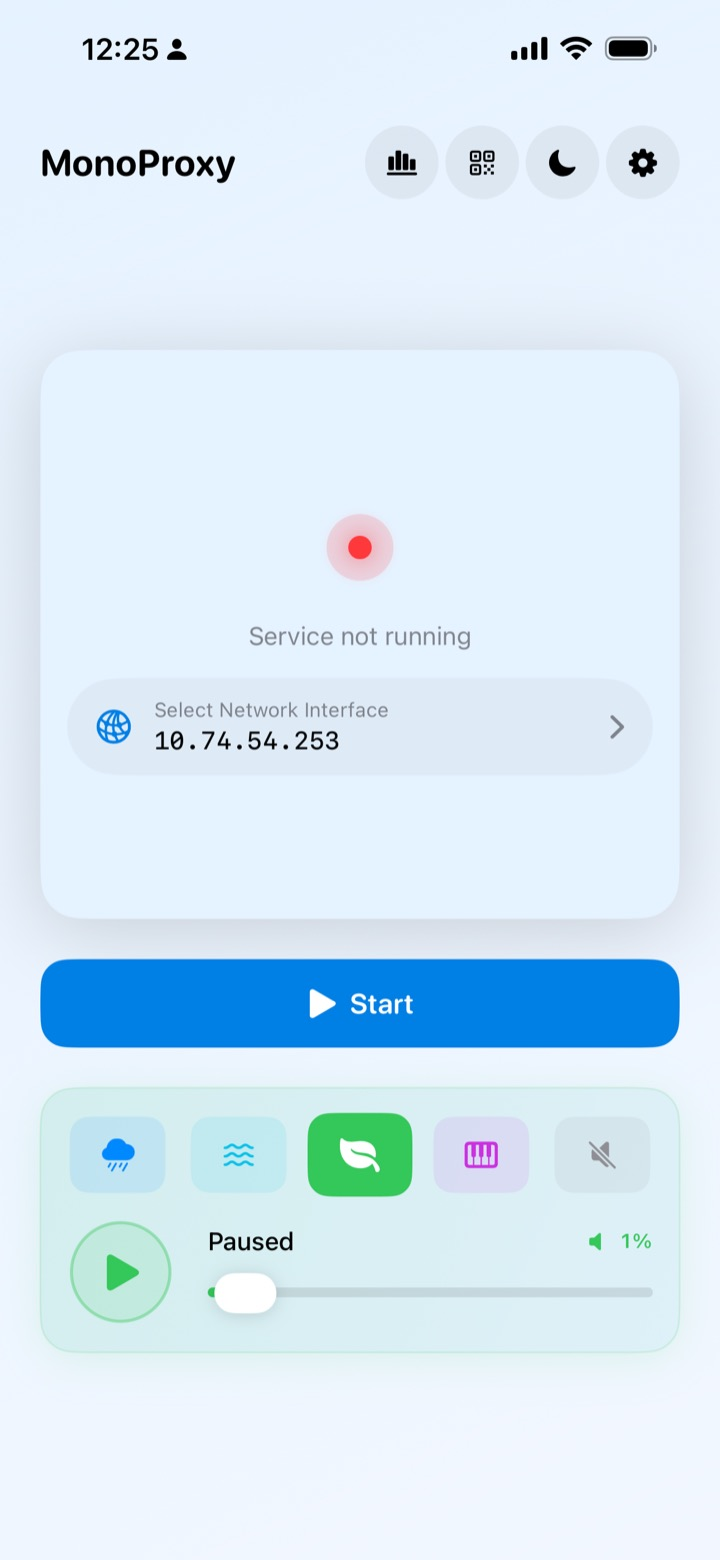
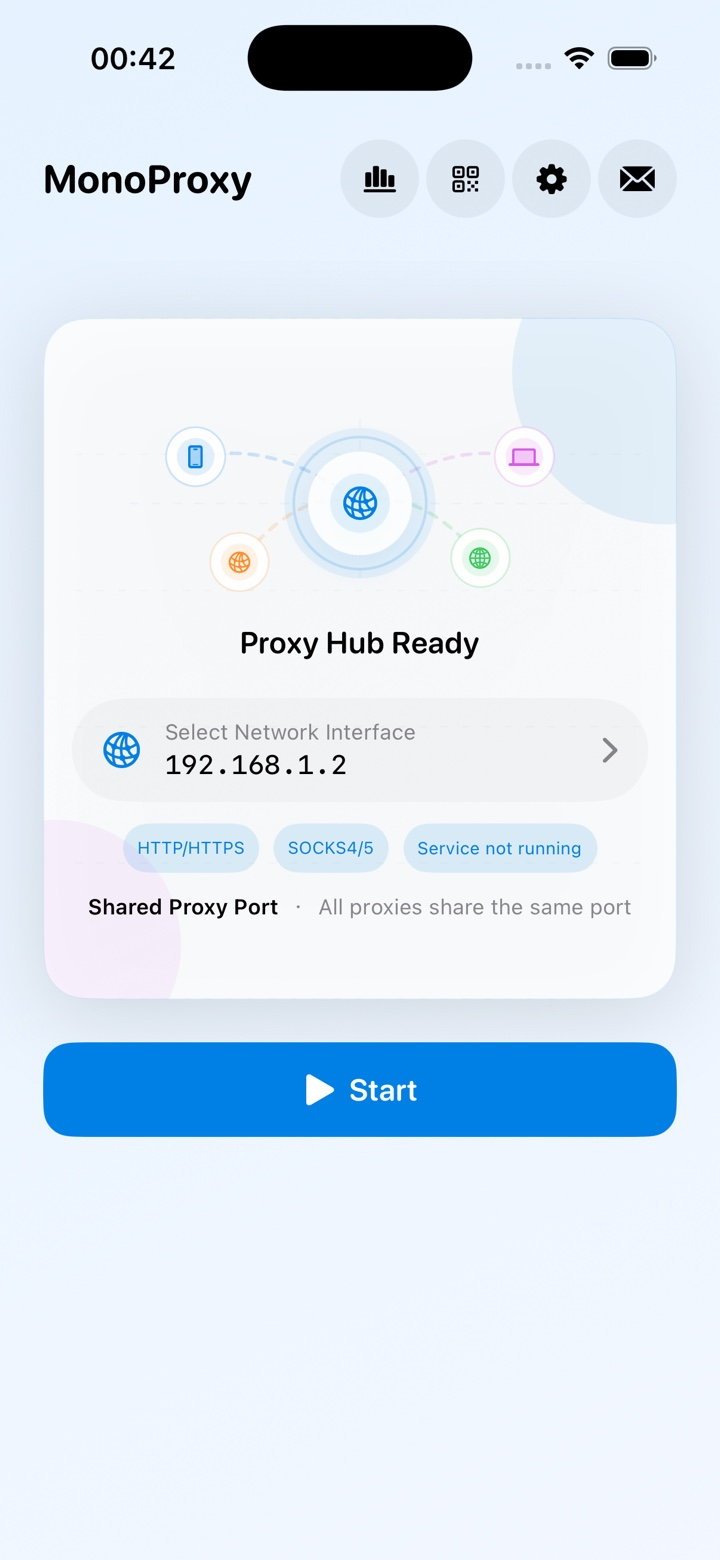
Update MonoProxy iOS launch site

diff --git a/index.html b/index.html
@@ -3,10 +3,10 @@
 <head>
 <meta charset="UTF-8">
 <meta name="viewport" content="width=device-width, initial-scale=1.0">
-<title>MonoProxy - Turn Your iPhone Into a Local Proxy Hub</title>
-<meta name="description" content="Run HTTP, HTTPS and SOCKS proxy services on your iPhone, connect devices on the same network, and verify real traffic locally.">
-<meta property="og:title" content="MonoProxy - Your iPhone, One Local Proxy Hub">
-<meta property="og:description" content="Connect Macs, PCs, tablets and test devices through one private local proxy endpoint.">
+<title>MonoProxy - iPhone Local Proxy Hub for HTTP, HTTPS and SOCKS</title>
+<meta name="description" content="MonoProxy turns your iPhone into a private local proxy hub with a redesigned status UI, shared HTTP/HTTPS/SOCKS endpoint, QR setup, diagnostics and on-device traffic insight.">
+<meta property="og:title" content="MonoProxy - Your iPhone, One Private Proxy Hub">
+<meta property="og:description" content="Share one local endpoint with Macs, PCs, tablets and test devices, then verify real HTTP, HTTPS and SOCKS traffic on device.">
 <meta property="og:type" content="website">
 <meta property="og:image" content="https://proxy.monoware.app/images/proxy-topology.jpg">
 <meta name="theme-color" content="#07111f">
@@ -137,6 +137,41 @@
   .protocol-list{display:grid;grid-template-columns:repeat(5,1fr)}
   .protocol-list span{padding:20px;text-align:center;border-right:1px solid var(--line);font-size:14px;font-weight:800;color:#425269}
   .protocol-list span:last-child{border-right:0}
+
+  /* Latest release */
+  .release{padding:78px 0 108px;background:linear-gradient(180deg,#fff 0%,#f5f9fd 100%)}
+  .release-panel{
+    position:relative;overflow:hidden;padding:44px;border:1px solid var(--line);border-radius:34px;background:
+      radial-gradient(48% 60% at 100% 0%,rgba(8,124,240,.11),transparent 65%),
+      radial-gradient(40% 56% at 0% 100%,rgba(48,199,109,.1),transparent 66%),
+      #fff;
+    box-shadow:0 22px 70px rgba(28,54,83,.08);
+  }
+  .release-head{display:grid;grid-template-columns:.9fr 1.1fr;gap:44px;align-items:end;margin-bottom:34px}
+  .release-version{
+    display:inline-flex;align-items:center;gap:9px;width:max-content;margin-bottom:18px;padding:8px 12px;
+    border:1px solid #cfe3f7;border-radius:999px;color:#176fbf;background:#eff7ff;font-size:12px;font-weight:850;
+    letter-spacing:.08em;text-transform:uppercase;
+  }
+  .release-version::before{content:"";width:8px;height:8px;border-radius:50%;background:var(--green);box-shadow:0 0 0 5px rgba(48,199,109,.13)}
+  .release-head h2{margin-bottom:0}
+  .release-head p{margin-bottom:0;color:var(--muted);font-size:17px;line-height:1.72}
+  .release-grid{display:grid;grid-template-columns:repeat(5,1fr);gap:14px}
+  .release-card{
+    min-height:214px;padding:20px;border:1px solid #dce7f1;border-radius:22px;background:rgba(255,255,255,.88);
+    box-shadow:0 14px 34px rgba(28,54,83,.055);
+  }
+  .release-index{
+    width:34px;height:34px;display:grid;place-items:center;margin-bottom:18px;border-radius:12px;color:var(--blue);
+    background:#eaf4ff;font:850 12px/1 ui-monospace,SFMono-Regular,Menlo,monospace;
+  }
+  .release-card strong{display:block;margin-bottom:8px;font-size:16px;line-height:1.25;letter-spacing:-.02em}
+  .release-card p{margin-bottom:0;color:var(--muted);font-size:13px;line-height:1.58}
+  .release-proof{
+    display:flex;flex-wrap:wrap;gap:8px 14px;align-items:center;margin-top:22px;padding:15px 17px;
+    border:1px solid #d8eadf;border-radius:18px;background:#f1fbf5;color:#486156;font-size:14px;
+  }
+  .release-proof strong{color:#163724}
 
   /* Flow */
   .flow-grid{display:grid;grid-template-columns:.82fr 1.18fr;gap:70px;align-items:center}
@@ -270,6 +305,8 @@
     .hero-copy p{margin-left:auto;margin-right:auto}
     .hero .actions,.hero-facts{justify-content:center}
     .phone-stage{min-height:620px}
+    .release-head{grid-template-columns:1fr;gap:18px}
+    .release-grid{grid-template-columns:repeat(2,1fr)}
     .flow-copy{position:static}
     .network-copy{grid-template-columns:1fr;padding:46px 38px 30px}
     .showcase-card.large,.showcase-card.small,.showcase-card.half{grid-column:span 6}
@@ -290,6 +327,10 @@
     .protocol-list span{padding:14px 8px;font-size:12px}
     .protocol-list span:nth-child(3){border-right:0}
     .protocol-list span:nth-child(-n+3){border-bottom:1px solid var(--line)}
+    .release{padding:56px 0 78px}
+    .release-panel{padding:28px 20px;border-radius:28px}
+    .release-grid{grid-template-columns:1fr}
+    .release-card{min-height:auto}
     .flow-visual{min-height:570px}
     .flow-phone-a{left:28px;top:48px;width:190px}
     .flow-phone-b{right:28px;bottom:45px;width:190px}
@@ -327,6 +368,7 @@
     </a>
     <div class="nav-right">
       <div class="nav-links">
+        <a href="#latest" data-i18n="nav.latest">What’s new</a>
         <a href="#flow" data-i18n="nav.flow">How it works</a>
         <a href="#features" data-i18n="nav.features">Features</a>
         <a href="#themes" data-i18n="nav.themes">Themes</a>
@@ -345,33 +387,33 @@
   <header class="hero">
     <div class="wrap hero-grid">
       <div class="hero-copy">
-        <span class="kicker" data-i18n="hero.kicker">Private local proxy for iPhone</span>
+        <span class="kicker" data-i18n="hero.kicker">iOS 1.2.5 release ready</span>
         <h1>
-          <span data-i18n="hero.line1">One iPhone.</span><br>
-          <span class="gradient" data-i18n="hero.line2">Every device connected.</span>
+          <span data-i18n="hero.line1">A cleaner proxy hub.</span><br>
+          <span class="gradient" data-i18n="hero.line2">Every local device connected.</span>
         </h1>
-        <p data-i18n="hero.body">Turn your iPhone into a local HTTP, HTTPS and SOCKS proxy hub. Share one reachable address with Macs, PCs, tablets and test devices, then see when real traffic arrives.</p>
+        <p data-i18n="hero.body">The latest MonoProxy for iOS brings a redesigned Hub view, shared HTTP/HTTPS/SOCKS endpoint, QR setup, on-device diagnostics and feedback from the first screen.</p>
         <div class="actions">
           <a class="button primary" href="https://apps.apple.com/app/id6748090836" target="_blank" rel="noopener" data-i18n="action.appstore">View on the App Store</a>
           <a class="button secondary" href="#flow" data-i18n="action.explore">See how it works</a>
         </div>
         <div class="hero-facts">
-          <span class="hero-fact"><i></i><span data-i18n="hero.fact1">Real traffic verified</span></span>
-          <span class="hero-fact" data-i18n="hero.fact2">One paid app</span>
-          <span class="hero-fact" data-i18n="hero.fact3">No account or subscription</span>
+          <span class="hero-fact"><i></i><span data-i18n="hero.fact1">New Proxy Hub UI</span></span>
+          <span class="hero-fact" data-i18n="hero.fact2">HTTP/HTTPS + SOCKS4/5</span>
+          <span class="hero-fact" data-i18n="hero.fact3">QR setup and support built in</span>
         </div>
       </div>
       <div class="phone-stage" aria-label="MonoProxy app preview">
         <div class="orb"></div>
         <div class="phone phone-main">
-          <img src="images/web/2.jpg" width="720" height="1560" alt="MonoProxy running with traffic verified" fetchpriority="high" decoding="async">
+          <img src="images/web/1.jpg" width="720" height="1560" alt="MonoProxy Proxy Hub Ready screen" fetchpriority="high" decoding="async">
         </div>
         <div class="phone phone-mini">
-          <img src="images/web/1.jpg" width="720" height="1560" alt="MonoProxy ready to start" fetchpriority="high" decoding="async">
+          <img src="images/web/2.jpg" width="720" height="1560" alt="MonoProxy running with traffic verified" fetchpriority="high" decoding="async">
         </div>
         <div class="live-card">
-          <strong data-i18n="hero.liveTitle">Traffic verified</strong>
-          <span data-i18n="hero.liveBody">A client is using the real proxy path.</span>
+          <strong data-i18n="hero.liveTitle">Hub ready</strong>
+          <span data-i18n="hero.liveBody">One port, clear status, faster setup.</span>
         </div>
       </div>
     </div>
@@ -386,6 +428,49 @@
       <span>SOCKS5</span>
     </div>
   </div>
+
+  <section class="release" id="latest">
+    <div class="wrap release-panel">
+      <div class="release-head">
+        <div>
+          <span class="release-version" data-i18n="release.version">New in iOS 1.2.5</span>
+          <h2 data-i18n="release.title">A release focused on clarity, speed and confidence.</h2>
+        </div>
+        <p data-i18n="release.body">The new interface puts the selected network address, protocol support, service state, diagnostics and support paths where users expect them: one tap from the main screen.</p>
+      </div>
+      <div class="release-grid">
+        <article class="release-card">
+          <div class="release-index">01</div>
+          <strong data-i18n="release.card1Title">Proxy Hub Ready</strong>
+          <p data-i18n="release.card1Body">A new visual status card shows the reachable interface, shared port model and current service state without digging into settings.</p>
+        </article>
+        <article class="release-card">
+          <div class="release-index">02</div>
+          <strong data-i18n="release.card2Title">One shared endpoint</strong>
+          <p data-i18n="release.card2Body">HTTP, HTTPS, SOCKS4, SOCKS4a and SOCKS5 stay on one host and port, with automatic protocol detection for clients.</p>
+        </article>
+        <article class="release-card">
+          <div class="release-index">03</div>
+          <strong data-i18n="release.card3Title">QR setup up front</strong>
+          <p data-i18n="release.card3Body">The QR entry is now a top-level action, making it faster to bring a Mac, PC, tablet or test device onto the proxy.</p>
+        </article>
+        <article class="release-card">
+          <div class="release-index">04</div>
+          <strong data-i18n="release.card4Title">Insight menu</strong>
+          <p data-i18n="release.card4Body">Connections, statistics, site traffic, diagnostics and browsing history are grouped behind one compact chart icon.</p>
+        </article>
+        <article class="release-card">
+          <div class="release-index">05</div>
+          <strong data-i18n="release.card5Title">Feedback from the app</strong>
+          <p data-i18n="release.card5Body">A dedicated support entry helps users report problems with useful context instead of leaving the connection flow.</p>
+        </article>
+      </div>
+      <div class="release-proof">
+        <strong data-i18n="release.proofTitle">Release focus:</strong>
+        <span data-i18n="release.proofBody">shorter setup paths, clearer runtime signals and local-first diagnostics for real proxy use.</span>
+      </div>
+    </div>
+  </section>
 
   <section class="section" id="flow">
     <div class="wrap flow-grid">
@@ -609,24 +694,40 @@
 <script>
   const translations = {
     en: {
-      metaTitle: "MonoProxy - Turn Your iPhone Into a Local Proxy Hub",
-      metaDescription: "Run HTTP, HTTPS and SOCKS proxy services on your iPhone, connect devices on the same network, and verify real traffic locally.",
+      metaTitle: "MonoProxy - iPhone Local Proxy Hub for HTTP, HTTPS and SOCKS",
+      metaDescription: "MonoProxy turns your iPhone into a private local proxy hub with a redesigned status UI, shared HTTP/HTTPS/SOCKS endpoint, QR setup, diagnostics and on-device traffic insight.",
+      "nav.latest": "What’s new",
       "nav.flow": "How it works",
       "nav.features": "Features",
       "nav.themes": "Themes",
       "nav.guides": "Setup guides",
       "nav.support": "Support",
-      "hero.kicker": "Private local proxy for iPhone",
-      "hero.line1": "One iPhone.",
-      "hero.line2": "Every device connected.",
-      "hero.body": "Turn your iPhone into a local HTTP, HTTPS and SOCKS proxy hub. Share one reachable address with Macs, PCs, tablets and test devices, then see when real traffic arrives.",
+      "hero.kicker": "iOS 1.2.5 release ready",
+      "hero.line1": "A cleaner proxy hub.",
+      "hero.line2": "Every local device connected.",
+      "hero.body": "The latest MonoProxy for iOS brings a redesigned Hub view, shared HTTP/HTTPS/SOCKS endpoint, QR setup, on-device diagnostics and feedback from the first screen.",
       "action.appstore": "View on the App Store",
       "action.explore": "See how it works",
-      "hero.fact1": "Real traffic verified",
-      "hero.fact2": "One paid app",
-      "hero.fact3": "No account or subscription",
-      "hero.liveTitle": "Traffic verified",
-      "hero.liveBody": "A client is using the real proxy path.",
+      "hero.fact1": "New Proxy Hub UI",
+      "hero.fact2": "HTTP/HTTPS + SOCKS4/5",
+      "hero.fact3": "QR setup and support built in",
+      "hero.liveTitle": "Hub ready",
+      "hero.liveBody": "One port, clear status, faster setup.",
+      "release.version": "New in iOS 1.2.5",
+      "release.title": "A release focused on clarity, speed and confidence.",
+      "release.body": "The new interface puts the selected network address, protocol support, service state, diagnostics and support paths where users expect them: one tap from the main screen.",
+      "release.card1Title": "Proxy Hub Ready",
+      "release.card1Body": "A new visual status card shows the reachable interface, shared port model and current service state without digging into settings.",
+      "release.card2Title": "One shared endpoint",
+      "release.card2Body": "HTTP, HTTPS, SOCKS4, SOCKS4a and SOCKS5 stay on one host and port, with automatic protocol detection for clients.",
+      "release.card3Title": "QR setup up front",
+      "release.card3Body": "The QR entry is now a top-level action, making it faster to bring a Mac, PC, tablet or test device onto the proxy.",
+      "release.card4Title": "Insight menu",
+      "release.card4Body": "Connections, statistics, site traffic, diagnostics and browsing history are grouped behind one compact chart icon.",
+      "release.card5Title": "Feedback from the app",
+      "release.card5Body": "A dedicated support entry helps users report problems with useful context instead of leaving the connection flow.",
+      "release.proofTitle": "Release focus:",
+      "release.proofBody": "shorter setup paths, clearer runtime signals and local-first diagnostics for real proxy use.",
       "flow.kicker": "A clear connection path",
       "flow.title": "Start it. Connect it. Know it works.",
       "flow.body": "MonoProxy keeps “the port is open” separate from “a client is connected” and “traffic really moved,” so every status has a precise meaning.",
@@ -692,24 +793,40 @@
       "footer.windows": "Windows guide"
     },
     zh: {
-      metaTitle: "MonoProxy - 把 iPhone 变成本地代理中心",
-      metaDescription: "在 iPhone 上运行 HTTP、HTTPS 与 SOCKS 代理，连接同一网络中的设备，并在本地验证真实流量。",
+      metaTitle: "MonoProxy - iPhone 本地 HTTP、HTTPS 与 SOCKS 代理中心",
+      metaDescription: "MonoProxy 把 iPhone 变成私有本地代理中心，提供新版状态界面、HTTP/HTTPS/SOCKS 共享端点、二维码配置、诊断与本地流量洞察。",
+      "nav.latest": "本次更新",
       "nav.flow": "工作方式",
       "nav.features": "功能",
       "nav.themes": "主题",
       "nav.guides": "配置指南",
       "nav.support": "支持",
-      "hero.kicker": "iPhone 私有本地代理",
-      "hero.line1": "一台 iPhone，",
-      "hero.line2": "连接你的所有设备。",
-      "hero.body": "把 iPhone 变成本地 HTTP、HTTPS 与 SOCKS 代理中心。向 Mac、PC、平板和测试设备共享一个可达地址，并确认真实流量何时到达。",
+      "hero.kicker": "iOS 1.2.5 已准备发版",
+      "hero.line1": "更清晰的代理中心，",
+      "hero.line2": "连接所有本地设备。",
+      "hero.body": "最新版 iOS MonoProxy 带来全新的 Hub 首屏、HTTP/HTTPS/SOCKS 共享端点、二维码配置、设备端诊断，以及首屏可达的反馈入口。",
       "action.appstore": "前往 App Store",
       "action.explore": "查看工作方式",
-      "hero.fact1": "验证真实流量",
-      "hero.fact2": "单一付费 App",
-      "hero.fact3": "无账号、无订阅",
-      "hero.liveTitle": "流量已验证",
-      "hero.liveBody": "客户端正在使用真实代理链路。",
+      "hero.fact1": "新版 Proxy Hub 界面",
+      "hero.fact2": "HTTP/HTTPS + SOCKS4/5",
+      "hero.fact3": "内置二维码配置与支持入口",
+      "hero.liveTitle": "Hub 已就绪",
+      "hero.liveBody": "单端口、清晰状态、更快配置。",
+      "release.version": "iOS 1.2.5 新内容",
+      "release.title": "围绕清晰、速度和可靠感打磨的一次发版。",
+      "release.body": "新版界面把网络地址、协议支持、服务状态、诊断和支持入口放到用户最需要的位置：从首屏一步可达。",
+      "release.card1Title": "Proxy Hub Ready",
+      "release.card1Body": "新的可视化状态卡直接展示可连接地址、共享端口模型和当前服务状态，不必进入设置翻找。",
+      "release.card2Title": "一个共享端点",
+      "release.card2Body": "HTTP、HTTPS、SOCKS4、SOCKS4a 与 SOCKS5 共用同一主机和端口，并自动识别客户端协议。",
+      "release.card3Title": "二维码配置前置",
+      "release.card3Body": "二维码入口提升为首屏核心操作，让 Mac、PC、平板和测试设备更快接入代理。",
+      "release.card4Title": "洞察菜单",
+      "release.card4Body": "连接、统计、站点流量、诊断和浏览历史统一收进紧凑的图表入口。",
+      "release.card5Title": "App 内反馈",
+      "release.card5Body": "独立支持入口让用户带着有效上下文反馈问题，不需要离开当前连接流程。",
+      "release.proofTitle": "发版重点：",
+      "release.proofBody": "更短配置路径、更清晰运行信号，以及面向真实代理使用的本地优先诊断。",
       "flow.kicker": "清晰的连接路径",
       "flow.title": "启动、连接，并确认它真的有效。",
       "flow.body": "MonoProxy 将“端口已监听”“客户端已连接”和“流量确实传输”区分开，让每个状态都有准确含义。",
